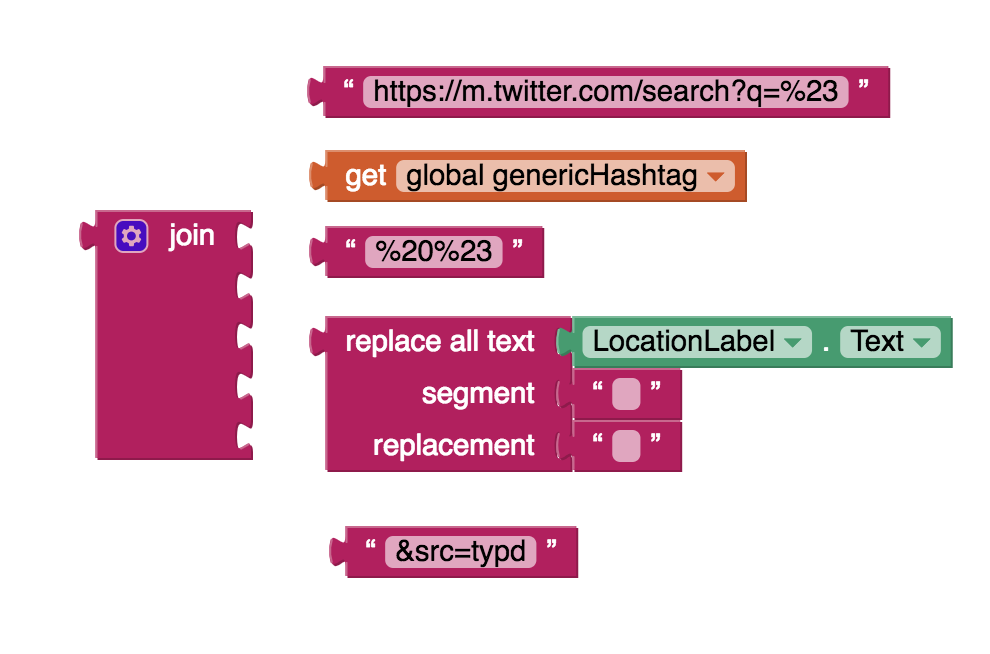
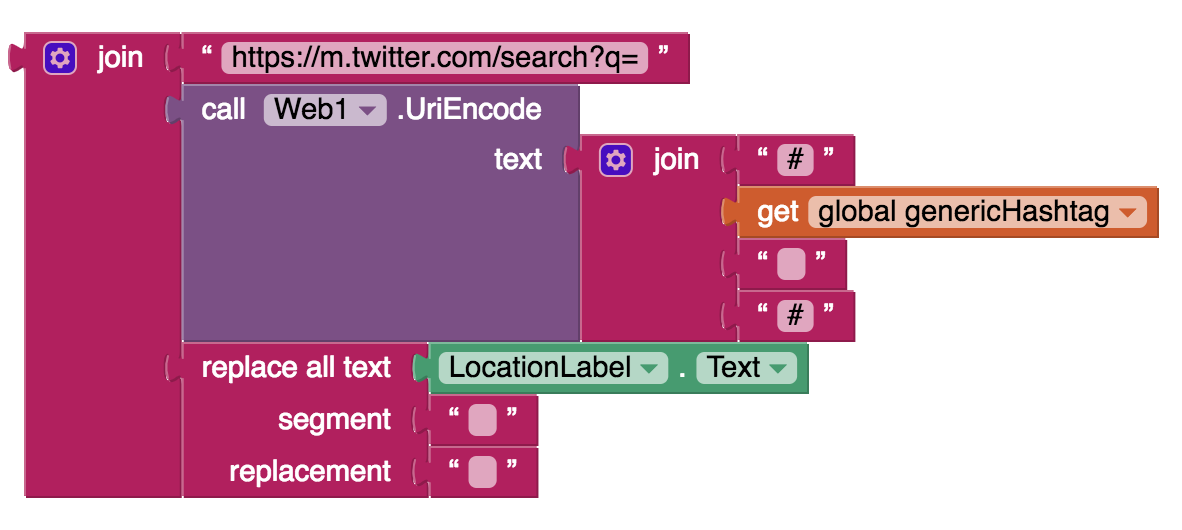
Edits to MaptheMov Tutorial
Based on Feedback from Karen and Radames

diff --git a/yr/tutorials/mapTheMovement.html b/yr/tutorials/mapTheMovement.html
@@ -114,7 +114,7 @@
         <h3>Set Marker</h3>
         <p>From the <span class="icon" alt="marker"></span>Marker1 drawer, drag in a <span class="procedures">call Marker1.SetLocation</span> block.</p>
         <img class="enlargeImage" src="../images/map_the_movement/setlocation.png" alt="some_text">
-        <p>Fill in the <b>latitude</b> and <b>longitude</b> of the new block with the <span class="variables">latitude</span> and <span class="variables">longitude</span> from the Tap block.</p>
+        <p>Fill in the <b>latitude</b> and <b>longitude</b> of the new block with the <span class="variables">latitude</span> and <span class="variables">longitude</span> from the Tap block and snap the <span class="procedures">call Marker1.SetLocation</span> block into the <span class="control">when Map1.TapAtPoint</span> block.</p>
         <img class="enlargeImage" src="../images/map_the_movement/filllatlong.png" alt="some_text">
       </div>
 
@@ -219,16 +219,21 @@
         <p>Drag out a <span class="procedures">call WebViewer1.GoToUrl</span> block, and snap it into the <span class="control">else</span> part of the <span class="control">if-then-else</span> block.</p>
         <img class="enlargeImage" src="../images/map_the_movement/gotourl1.png" alt="some_text">
         <p>Drag out a <span class="text">join</span> block, and mutate it to have three sockets. Snap it into the <span class="procedures">GoToUrl</span> block.</p>
-        <p>In the first socket, enter: <span class="text">https://m.twitter.com/search?q=%23NeverAgain%20%23</span>.</p>
-        <p>In the third socket, enter: <span class="text">&src=typd</span>.</p>
+        <p>In the first socket, enter: <br /><span class="text">https://m.twitter.com/search?q=</span>.</p>
+        
+        <p>For  the second  socket: go to the <span class="icon" alt="web"></span>Web drawer  and drag  a <span class="procedures">UriEncode</span>  block.</p> 
+        <img class="enlargeImage" src="../images/map_the_movement/webUriEncode.png" alt="some_text">
+        <p>and snap to its socket the text  "#NeverAgain # as shown.  This will go into the second socket of the <span class="text">join</span> block. </p>
 		    <img class="enlargeImage" src="../images/map_the_movement/elsecallWebViewer.png" alt="some_text">
-        <p>For the second socket, we need to make sure that the location name doesn't have any spaces in it. We will do this in the next step.</p>
+        <p>In  case you are wondering why we need to do the encoding for the URL, note that we are joining the Twitter search query URL:  "https://twitter.com/search?q=" with search terms like #NeverAgain  #Boston containing special characters like the hashtag symbol #.  Special characters like # & % might conflict with the URL request and need to be encoded to avoid conflicts.</p>
+
+        <p>For the third socket, we need to make sure that the location name doesn't have any spaces in it. We will do this in the next step.</p>
         
       </div>
 
       <div class="tutorialContentPage">
         <h3>Remove Spaces from Location Name</h3>
-        <p>Drag out a <span class="text">replace all text</span> block and snap it into the second socket of the <span class="text">join</span> block of the previous step.</p>
+        <p>Drag out a <span class="text">replace all text</span> block and snap it into the third socket of the <span class="text">join</span> block of the previous step.</p>
 		    <p>From the <span class="icon" alt="label"></span>LocationLabel drawer, drag out a <span class="getters">LocationLabel.Text</span> block and snap it into the first  socket of the <span class="text">replace all text</span> block.</p>
         <p>In a new empty text block, enter a space character. This goes into the <b>segment</b> socket.</p>
         <p>In a new empty text block, make sure it is completely empty--no spaces. This goes into the <b>replacement</b> socket.</p>
